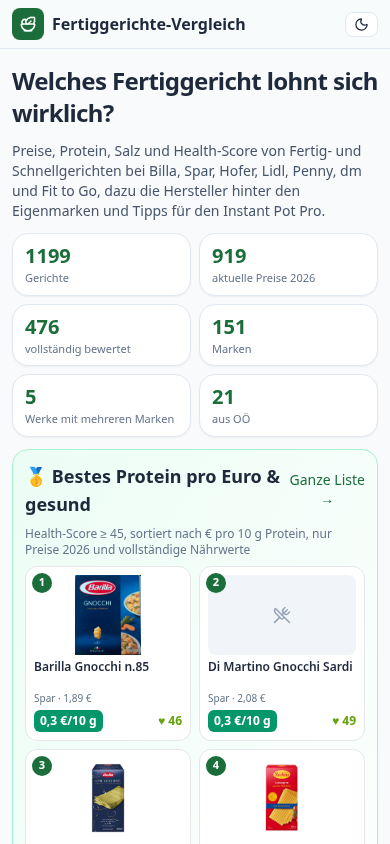
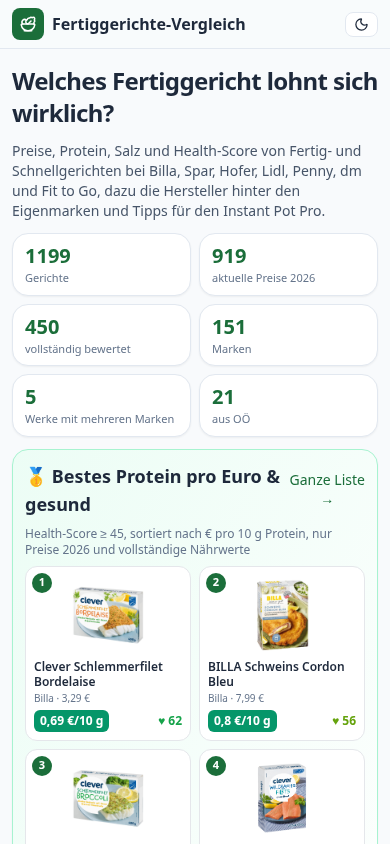
cache-busting

diff --git a/src/App.tsx b/src/App.tsx
@@ -23,9 +23,9 @@ const TABS:[string,string,any][]=[['alle','Alle Gerichte',Explorer],['top','Top-
 const Loading=()=><Card className="p-10 text-center text-slate-500 animate-pulse">Lädt…</Card>
 export default function App(){
   const [D,setD]=useState<Data|null>(null)
-  useEffect(()=>{fetch('./data.json').then(r=>r.json()).then(setD)},[])
+  useEffect(()=>{fetch('./data.json?v='+__BUILD__).then(r=>r.json()).then(setD)},[])
   const [stores,setStores]=useState<StoresT|null>(null)
-  useEffect(()=>{fetch('./stores.json').then(r=>r.ok?r.json():null).then(setStores).catch(()=>{})},[])
+  useEffect(()=>{fetch('./stores.json?v='+__BUILD__).then(r=>r.ok?r.json():null).then(setStores).catch(()=>{})},[])
   const nearest=useCallback((st:string):Shop|null=>{if(!stores)return null;let b:Shop|null=null;for(const s of stores.shops)if(s.chain===st&&(!b||(s.walk_m??s.dist)<(b.walk_m??b.dist)))b=s;return b},[stores])
   const [tab,setTab]=useHashState<string>('tab','alle')
   const [cmpS,setCmpS]=useHashState<string>('cmp',''),[det,setDet]=useHashState<string>('p','')

diff --git a/vite.config.ts b/vite.config.ts
@@ -1,3 +1,3 @@
 import { defineConfig } from 'vite'
 import react from '@vitejs/plugin-react'
-export default defineConfig({ plugins:[react()], base:'./' })
+export default defineConfig({ plugins:[react()], base:'./', define:{__BUILD__:JSON.stringify(Date.now().toString(36))} })

diff --git a/src/build.d.ts b/src/build.d.ts
@@ -1,0 +1,1 @@
+declare const __BUILD__:string
